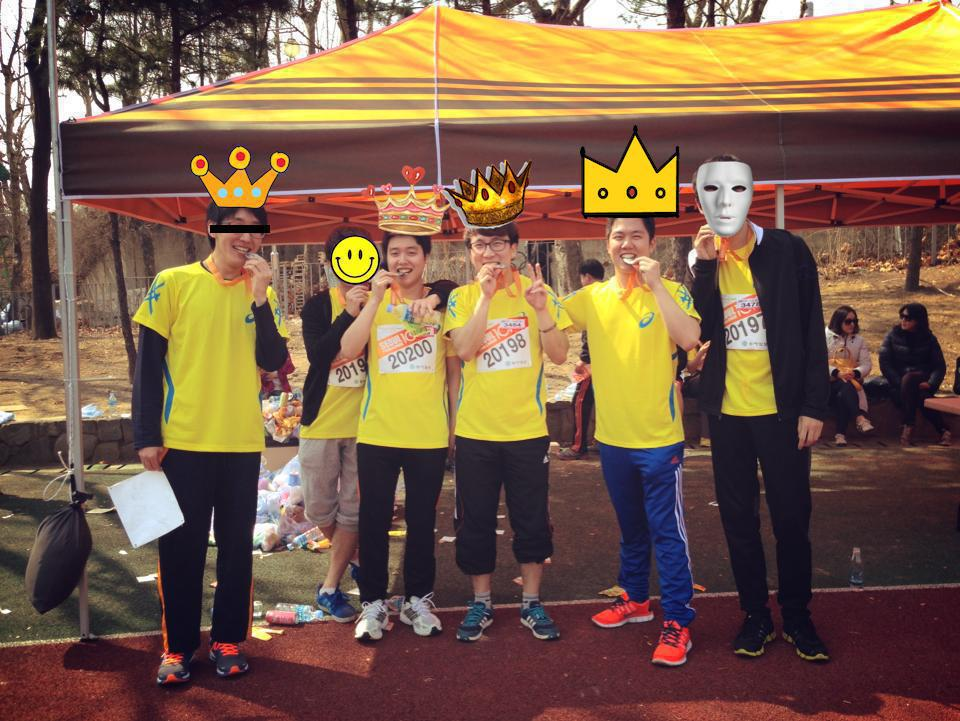
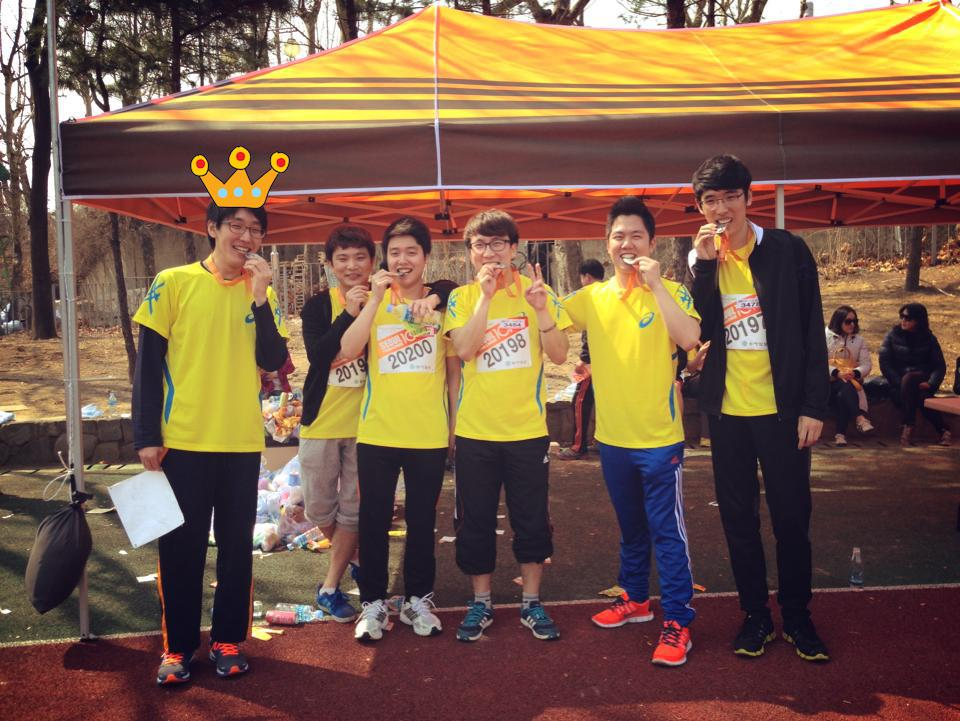
사진에 마커달기

Changed region(s): [[0.3438, 0.2136, 0.5625, 0.3967], [0.5938, 0.1831, 0.8125, 0.3356], [0.2188, 0.3051, 0.2812, 0.3356]]

diff --git a/lib/face-converter.rb b/lib/face-converter.rb
@@ -1,0 +1,119 @@
+require 'json'
+require 'fileutils'
+
+module FaceConverter
+  IMAGE=1
+  COLOR_BOX=2
+  X=0
+  Y=1
+  UGLY_EYE=0
+  UGLY_SMILE=1
+  UGLY_MASK=2
+  MARKER_IMAGE_DIR="#{Rails.root.join("imagemagick")}"
+  #MARKER_IMAGE_DIR="/Users/tantara/Workspace/fb/imagemagick"
+  BEAUTIFUL_IMGAES=[
+    {"type" => IMAGE, "name" => "beautiful-0.png", "width" => 100, "height" => 64},
+    {"type" => IMAGE, "name" => "beautiful-1.png", "width" => 100, "height" => 71},
+    {"type" => IMAGE, "name" => "beautiful-2.png", "width" => 100, "height" => 74},
+    {"type" => IMAGE, "name" => "beautiful-3.png", "width" => 100, "height" => 94}
+  ]
+  UGLY_IMAGES=[
+    {"type" => IMAGE, "sub_type" => UGLY_EYE, "name" => "ugly-0.png", "width" => 60, "height" => 10},
+    {"type" => IMAGE, "sub_type" => UGLY_SMILE, "name" => "ugly-1.png", "width" => 50, "height" => 50},
+    {"type" => IMAGE, "sub_type" => UGLY_MASK, "name" => "ugly-2.png", "width" => 80, "height" => 80}
+  ]
+  LABEL_IMAGES=[
+    {"type" => IMAGE, "name" => "label-0.png", "width" => 50, "height" => 50},
+    {"type" => IMAGE, "name" => "label-1.png", "width" => 50, "height" => 50},
+    {"type" => IMAGE, "name" => "label-2.png", "width" => 50, "height" => 50},
+    {"type" => IMAGE, "name" => "label-3.png", "width" => 50, "height" => 50},
+    {"type" => IMAGE, "name" => "label-4.png", "width" => 50, "height" => 50},
+    {"type" => IMAGE, "name" => "label-5.png", "width" => 50, "height" => 50},
+    {"type" => IMAGE, "name" => "label-6.png", "width" => 50, "height" => 50}
+  ]
+
+  def self.convert(file_name, metadata_str)
+    result = "#{File.dirname(file_name)}/../converted/#{File.basename(file_name)}"
+
+    puts metadata_str
+    metadata = JSON.parse(metadata_str)
+    metadata = metadata.sort {|x, y| y["point"] <=> x["point"]}
+
+    begin
+      metadata.each_with_index do |m, i|
+        img = {"type" => COLOR_BOX, "name" => "", "width" => 30, "height" => 30} # default group marker
+        if i == 0 # beautiful
+          img = BEAUTIFUL_IMGAES[rand(BEAUTIFUL_IMGAES.length)]
+        elsif i == metadata.length - 1 # ugly
+          img = UGLY_IMAGES[rand(UGLY_IMAGES.length)]
+        else
+          img = LABEL_IMAGES[rand(LABEL_IMAGES.length)]
+        end
+
+        merged = "#{MARKER_IMAGE_DIR}/#{img["name"]}"
+        position = m["position"]
+        puts "position #{position}"
+        ### crown
+        #x: 33.x - img.width / 2
+        #y: 21.y - img.height
+        #width: img.width
+        #height: img.height
+
+        ### mask
+        #x: 0.x
+        #y: 21.y
+        #width: 13.x - 1.x
+        #height: (7.y - 62.y) * 2
+        
+        ### smile
+        #x: 62.x - img.width / 2
+        #y: 62.y - img.height / 2
+        #width: img.width
+        #height: img.height
+
+        ### eye
+        #x: 0.x
+        #y: 33.y
+        #width: 14.x - 0.x
+        #height: 41.y - 33.y
+        
+        ### label
+        #x: 33.x - img.width / 2
+        #y: 21.y - img.height
+        #width: img.width
+        #height: img.height
+        
+        if i == 0 # beautiful
+          x = "+#{position[33][X] - img["width"] / 2}"
+          y = "+#{position[21][Y] - img["height"]}"
+          size = "#{img["width"]}x#{img["height"]}"
+        elsif i == metadata.length - 1 # ugly
+          case img["sub_type"]
+          when UGLY_EYE
+            x = "+#{position[0][X]}"
+            y = "+#{position[33][Y]}"
+            size = "#{position[14][X] - position[0][X]}x#{position[41][Y] - position[33][Y]}"
+          when UGLY_SMILE
+            x = "+#{position[62][X] - img["width"] / 2}"
+            y = "+#{position[62][Y] - img["height"] / 2}"
+            size = "#{img["width"]}x#{img["height"]}"
+          when UGLY_MASK
+            x = "+#{position[0][X]}"
+            y = "+#{position[21][Y]}"
+            size = "#{position[13][X] - position[1][X]}x#{(position[7][Y] - position[62][Y]) / 2}"
+          end
+        else
+          x = "+#{position[33][X] - img["width"] / 2}"
+          y = "+#{position[21][Y] - img["height"] * 1.5}"
+          size = "#{img["width"]}x#{img["height"]}"
+        end
+
+        #puts "composite -geometry #{size}#{x}#{y} #{merged} #{result} #{result}"
+        `composite -geometry #{size}#{x}#{y} #{merged} #{result} #{result}`
+      end
+      return true
+    rescue
+      return false
+    end
+  end
+end

diff --git a/app/controllers/main_controller.rb b/app/controllers/main_controller.rb
@@ -1,5 +1,6 @@
 class MainController < ApplicationController
   def home
+    @face = Face.new
   end
 
   # data format
@@ -8,24 +9,21 @@ class MainController < ApplicationController
   #  "message" : TEXT,
   #  "metadata" : '[{
   #     "point" : NUMBER
-  #     "head" : [X, Y],
-  #     "eyes" : [X, Y, WIDTH, HEIGHT]
+  #     "position" : [[X, Y], ...]
   #   },
   #   ...
   #  ]'
   # }
   def upload
-    face = Face.new(params[:face])
+    #face = Face.new(params[:face])
+    face = Face.new
+    face.message = params[:face][:message]
+    face.photo = params[:face][:photo]
+    face.metadata = params[:face][:metadata]
 
-    if face.save
-      metadata = JSON.parse(face.metadata)
-
-      require 'face-converter'
-      metadata = metadata.sort {|m| m["point"]}
-      metadata.each_with_index do |f, i|
-      end
-
-      render :json => {"face" => {"id" => face.id, "message" => face.message, "photo_url" => face.photo.url}}
+    require 'face-converter'
+    if face.save && FaceConverter.convert(face.photo.path, face.metadata)
+      render :json => {"face" => {"id" => face.id, "message" => face.message, "photo_url" => face.photo.url(:converted)}}
     else
       render :status => 500, :json => {"msg" => "얼굴 인식에 실패했습니다. #CANNOT_CONVERT"}
     end

diff --git a/imagemagick/test_lib.rb b/imagemagick/test_lib.rb
@@ -1,0 +1,30 @@
+require_relative "../lib/face-converter"
+
+X=0
+Y=1
+
+file_name = "/Users/tantara/Workspace/fb/imagemagick/people.jpg"
+
+metadata = []
+
+point = 100
+position = [[0, 0]] * 70
+position[33][X] = 245
+position[21][Y] = 216
+metadata << {"point" => point, "position" => position}
+
+point = 30
+position = [[0, 0]] * 70
+position[62][X] = 243
+position[62][Y] = 234
+metadata << {"point" => point, "position" => position}
+
+point = 60
+position = [[0, 0]] * 70
+position[33][X] = 245
+position[21][Y] = 216
+metadata << {"point" => point, "position" => position}
+
+puts metadata.to_json
+
+#FaceConverter.convert(file_name, metadata.to_json)

diff --git a/app/models/face.rb b/app/models/face.rb
@@ -1,7 +1,9 @@
 class Face < ActiveRecord::Base
-  has_attached_file :photo
+  has_attached_file :photo, :styles => {:converted => ""}
+
+  validates_attachment_content_type :photo, :content_type => /\Aimage\/.*\Z/
 
   def converted_photo
-    File.open(self.photo_file_name)
+    File.open("#{File.dirname(self.photo.path)}/../converted/#{self.photo_file_name}") 
   end
 end

diff --git a/db/schema.rb b/db/schema.rb
@@ -15,6 +15,7 @@ ActiveRecord::Schema.define(version: 20140419063816) do
 
   create_table "faces", force: true do |t|
     t.text     "message",            default: ""
+    t.text     "metadata",           default: ""
     t.datetime "created_at"
     t.datetime "updated_at"
     t.string   "photo_file_name"

diff --git a/imagemagick/convert.rb b/imagemagick/convert.rb
@@ -6,6 +6,8 @@ x = "+190"
 y = "+145"
 merged = "beautiful-0.png"
 `composite -geometry #{size}#{x}#{y} #{merged} #{faces} #{result}`
+puts "composite -geometry #{size}#{x}#{y} #{merged} #{faces} #{result}"
+return
 
 size = "60x10"
 x = "+210"
